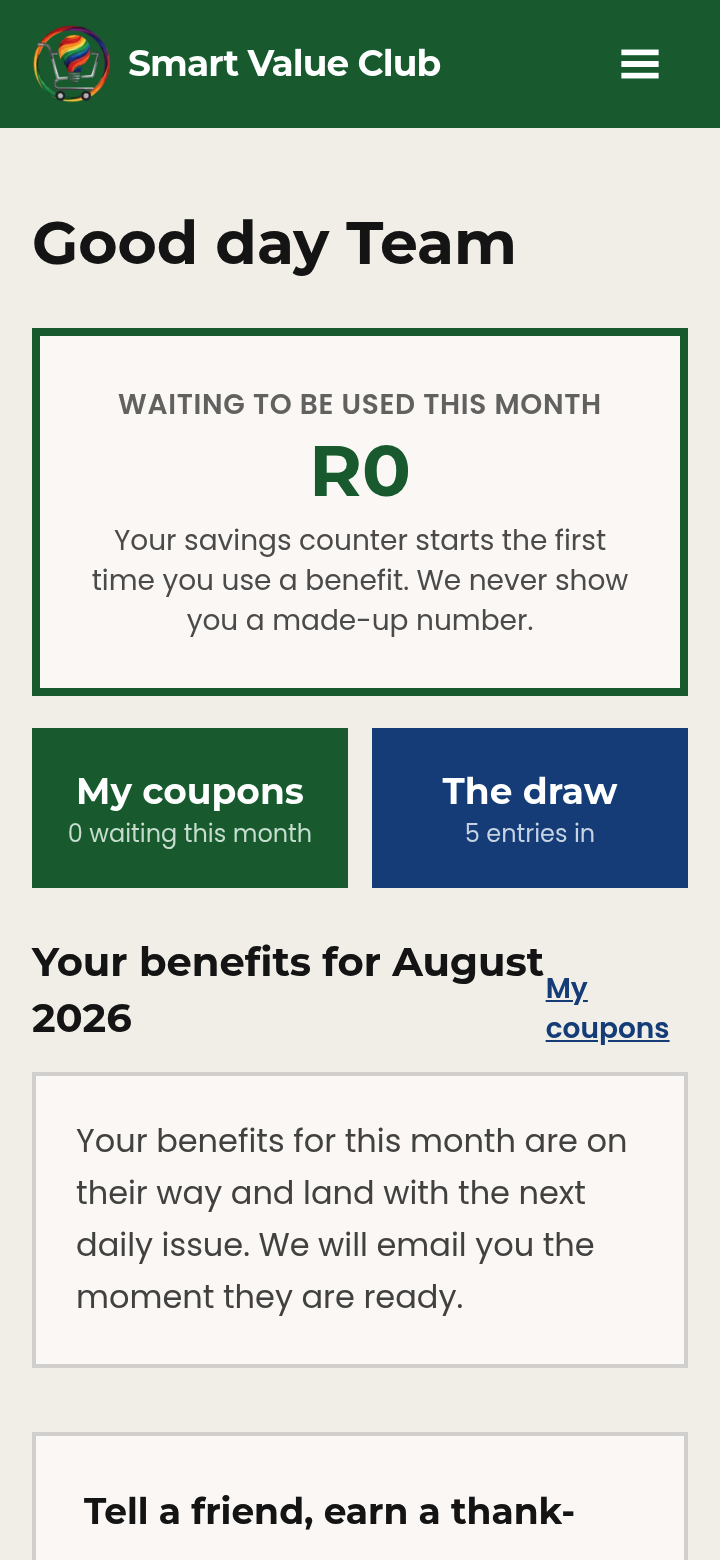
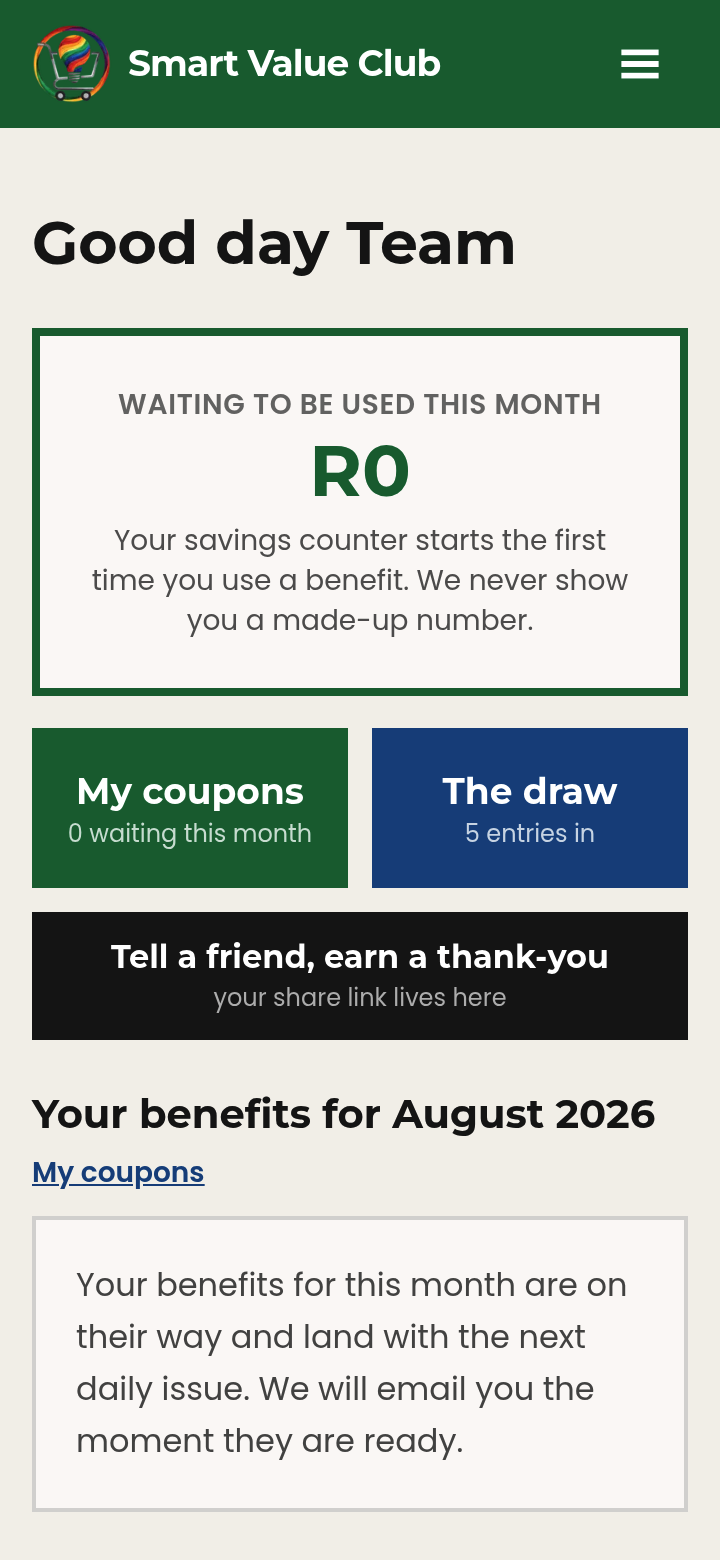
SVC help: the referral block screenshot joins its guide, dashboard shot refreshed
Captured from the deployed preview as the logged-in tester.

diff --git a/src/lib/svc/help-content.ts b/src/lib/svc/help-content.ts
@@ -177,7 +177,9 @@ export const HELP_GUIDES: HelpGuide[] = [
     steps: [
       {
         title: "Find your link on the dashboard",
-        body: "In the Tell a friend block is your personal link and a green Share on WhatsApp button. Send it to anyone you like.",
+        body: "Tap the black Tell a friend tile at the top of your dashboard, or scroll to the Tell a friend block. Your personal link is there with a green Share on WhatsApp button. Send it to anyone you like.",
+        image: "/svc/help/referral.png",
+        imageAlt: "The Tell a friend block with the share link and WhatsApp button",
       },
       {
         title: "What happens when they join",
